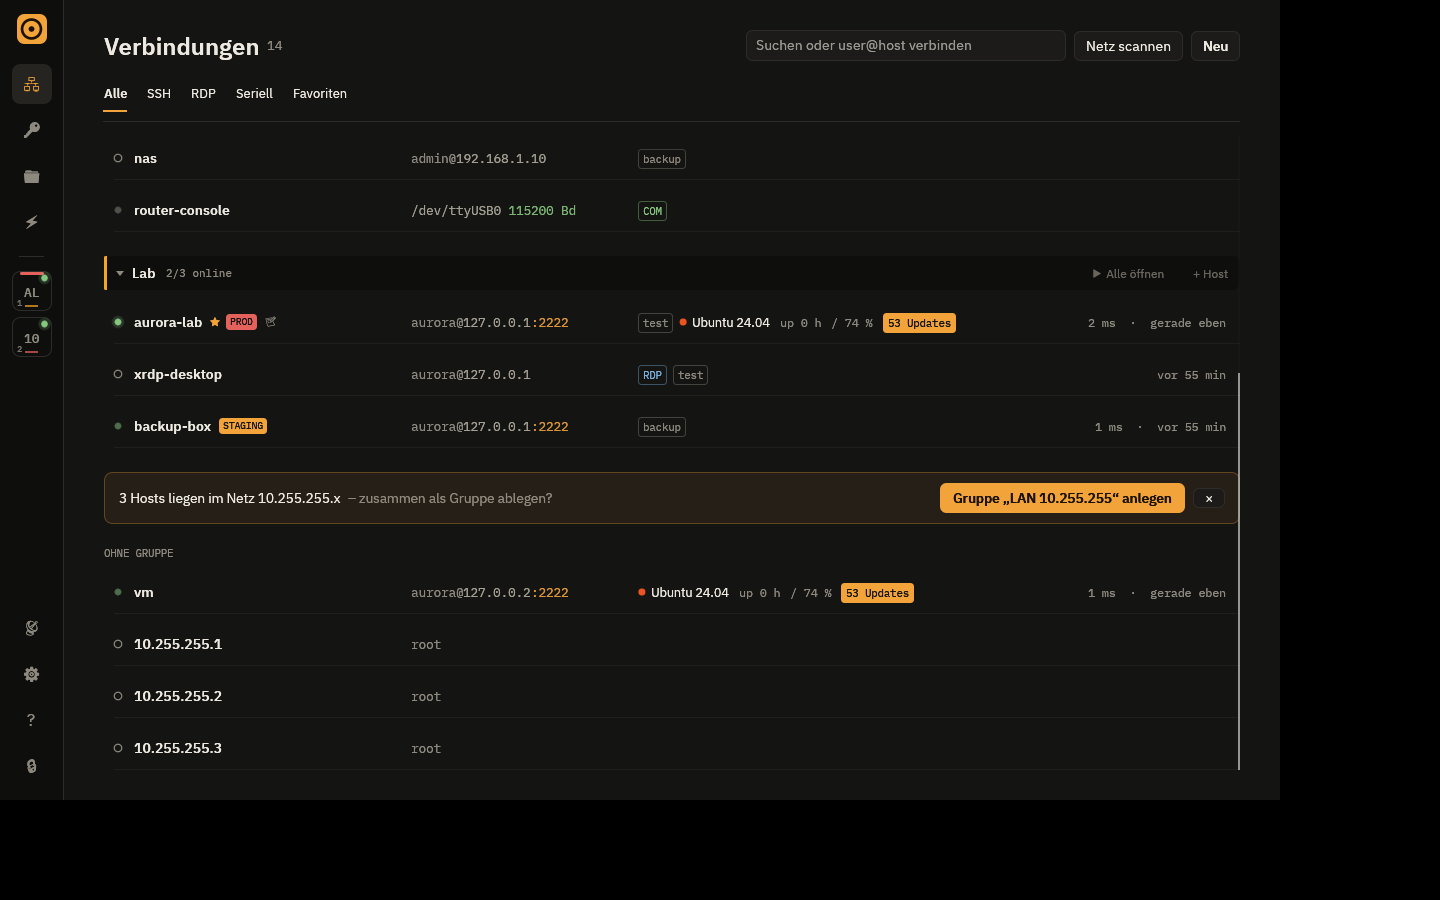
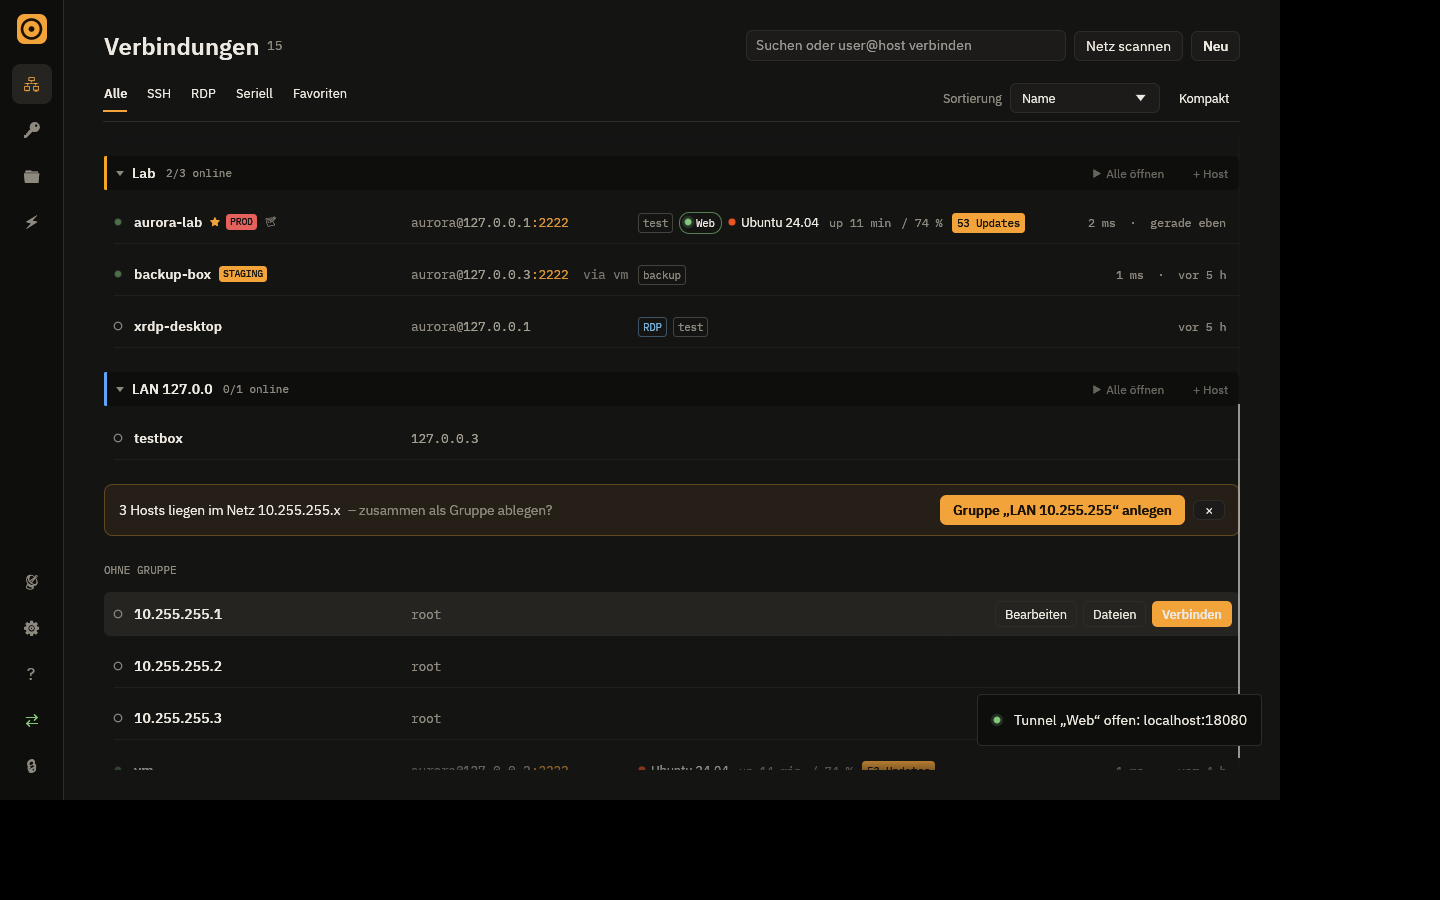
Security fixes (private temp dirs for updates/edits, never shell-open executable remote files), English UI merged, release 0.5.0
Claude-Session: https://claude.ai/code/session_01LvNC3dMGZM5cEJJMTfKPmr

diff --git a/src/ui/sftp.rs b/src/ui/sftp.rs
@@ -567,13 +567,21 @@ pub fn show(app: &mut App, ui: &mut egui::Ui, tab_id: u64) {
                     ));
                     continue;
                 }
-                let dir = std::env::temp_dir()
-                    .join("aurora-edit")
-                    .join(uuid::Uuid::new_v4().simple().to_string());
-                if let Err(e) = std::fs::create_dir_all(&dir) {
-                    toasts.push((t!("Temp-Ordner: {}", e), theme::red()));
+                let editor_set = !editor.trim().is_empty();
+                if !editor_set && runs_when_opened(&name) {
+                    toasts.push((
+                        t!("„{}“ ist ausführbar – zum Bearbeiten erst einen Editor in den Einstellungen festlegen", name),
+                        theme::amber(),
+                    ));
                     continue;
                 }
+                let dir = match crate::store::private_temp_dir("aurora-edit") {
+                    Ok(d) => d,
+                    Err(e) => {
+                        toasts.push((t!("Temp-Ordner: {}", e), theme::red()));
+                        continue;
+                    }
+                };
                 next_id += 1;
                 if let Some(r) = &pane.remote {
                     let _ = r.tx.send(SftpCmd::Download {
@@ -1101,6 +1109,43 @@ fn entry_row(
 
 /// Opens a local file in the configured editor command, or the system default app.
 /// The path is passed as a single argument (no shell), so odd file names are harmless.
+/// File types the system's default handler would execute instead of opening for editing.
+fn runs_when_opened(name: &str) -> bool {
+    const RISKY: &[&str] = &[
+        "exe",
+        "com",
+        "bat",
+        "cmd",
+        "ps1",
+        "psm1",
+        "vbs",
+        "vbe",
+        "js",
+        "jse",
+        "wsf",
+        "wsh",
+        "hta",
+        "msi",
+        "msp",
+        "scr",
+        "lnk",
+        "url",
+        "pif",
+        "cpl",
+        "jar",
+        "reg",
+        "appref-ms",
+        "library-ms",
+        "desktop",
+        "appimage",
+        "app",
+        "command",
+        "run",
+    ];
+    name.rsplit_once('.')
+        .is_some_and(|(_, ext)| RISKY.contains(&ext.trim().to_lowercase().as_str()))
+}
+
 fn open_in_editor(editor: &str, path: &std::path::Path) -> std::io::Result<()> {
     let editor = editor.trim();
     if !editor.is_empty() {
@@ -1112,8 +1157,11 @@ fn open_in_editor(editor: &str, path: &std::path::Path) -> std::io::Result<()> {
             .spawn()?;
         return Ok(());
     }
+    // Windows: always a text editor – the shell's default action could run the file.
     #[cfg(windows)]
-    std::process::Command::new("explorer").arg(path).spawn()?;
+    std::process::Command::new("notepad.exe")
+        .arg(path)
+        .spawn()?;
     #[cfg(target_os = "macos")]
     std::process::Command::new("open").arg(path).spawn()?;
     #[cfg(all(unix, not(target_os = "macos")))]
@@ -1411,4 +1459,15 @@ fn source_combo(ui: &mut egui::Ui, id: &str, value: &mut Option<Uuid>, hosts: &[
                 ui.selectable_value(value, Some(*hid), name);
             }
         });
+}
+
+#[cfg(test)]
+mod edit_tests {
+    #[test]
+    fn executables_are_not_opened() {
+        assert!(super::runs_when_opened("deploy.CMD"));
+        assert!(super::runs_when_opened("notes.txt   .hta"));
+        assert!(!super::runs_when_opened("nginx.conf"));
+        assert!(!super::runs_when_opened("README"));
+    }
 }

diff --git a/src/store.rs b/src/store.rs
@@ -172,6 +172,20 @@ impl Vault {
     }
 }
 
+/// A fresh directory only this user can access (`<tmp>/<prefix>-<random>`, mode 0700).
+/// Never reuses an existing path, so nobody else can pre-create or swap its contents.
+pub fn private_temp_dir(prefix: &str) -> Result<PathBuf> {
+    let dir = std::env::temp_dir().join(format!("{prefix}-{}", uuid::Uuid::new_v4().simple()));
+    #[cfg(unix)]
+    {
+        use std::os::unix::fs::DirBuilderExt;
+        fs::DirBuilder::new().mode(0o700).create(&dir)?;
+    }
+    #[cfg(not(unix))]
+    fs::create_dir(&dir)?;
+    Ok(dir)
+}
+
 /// Everything worth moving to another PC, as written into an `.aurora` export file.
 #[derive(Serialize, Deserialize, Default)]
 #[serde(default)]

diff --git a/src/update.rs b/src/update.rs
@@ -220,9 +220,9 @@ fn install_blocking(release: &Release, sink: &Sink<UpdateEvent>) -> Result<bool>
         bail!(t!("Prüfsumme stimmt nicht – Download verworfen"));
     }
 
-    let dir = std::env::temp_dir().join(format!("aurora-update-{}", release.version_text()));
-    let _ = std::fs::remove_dir_all(&dir);
-    std::fs::create_dir_all(&dir)?;
+    // Private, randomly named directory: another local user must not be able to
+    // swap the verified file before the installer / pkexec reads it.
+    let dir = crate::store::private_temp_dir("aurora-update")?;
     let file = dir.join(&asset.name);
     std::fs::write(&file, &data)?;
 

diff --git a/src/i18n/ui_files.rs b/src/i18n/ui_files.rs
@@ -107,4 +107,8 @@ pub const T: &[(&str, &str)] = &[
         "Security screen / sign-in",
     ),
     ("Getrennt", "Disconnected"),
+    (
+        "„{}“ ist ausführbar – zum Bearbeiten erst einen Editor in den Einstellungen festlegen",
+        "\"{}\" is executable – set an editor in Settings before editing it",
+    ),
 ];

diff --git a/README.md b/README.md
@@ -30,6 +30,12 @@ Unter [Releases](../../releases) liegen Windows und Linux im selben Release:
 | **Gruppen** | Verschachtelt, Farbe & Icon, vererbte Standard-User/-Identität, Favoriten, Zuletzt verbunden, Tags |
 | **Design** | Eigenes „Patchbay“-Design: Sessions als nummerierte Ports mit Status-LED in der Leiste, IBM Plex Sans/Mono. 12 Themes (Phosphor, Glacier, Nord, Dracula, Paper, Tokyo Night, Gruvbox, Catppuccin, Rosé Pine, Solarized Dark/Light, GitHub Light) – das Terminal übernimmt jeweils die passenden Farben. Befehlspalette `Ctrl/⌘+K`, Broadcast-Modus |
 | **Hostliste** | Zeigt nach dem ersten Login **Betriebssystem, Laufzeit, Plattenbelegung und offene Updates** (ein Klick: „Updates installieren“), Latenz und Status (grün = erreichbar, Ring = keine Antwort, rot = letzte Verbindung fehlgeschlagen). Hosts ohne Namen übernehmen den Hostnamen des Servers, Umbenennen per `F2`. Gruppen mit „x/y online“, Vorschlag zum Gruppieren von Hosts im selben Netz. **Netz scannen** findet SSH-/RDP-Geräte im lokalen Netz (mit OS-Hinweis aus dem SSH-Banner). **SSH-Key einrichten**: Key erzeugen, auf dem Server hinterlegen, Anmeldung prüfen – danach ohne Passwort |
+| **Tunnel & Jump-Host** | Port-Weiterleitungen pro Host als Schalter in der Liste (Status-LED, optional Browser öffnen); „Verbinden über“ einen anderen SSH-Host (ProxyJump) – gilt für Terminal, Dateien, Tunnel |
+| **Dateien bearbeiten** | Doppelklick auf eine Server-Datei öffnet sie im eigenen Editor, jedes Speichern lädt sie automatisch hoch (ausführbare Dateitypen werden nie mit der Standard-App geöffnet) |
+| **Hostliste** (2) | Mehrfachauswahl (Ctrl/Shift+Klick) mit Sammelaktionen, Hosts per Drag & Drop in Gruppen, kompakte Ansicht, Sortierung (Name / zuletzt / online) |
+| **Sitzungen** | Offene Sessions samt Splitscreen werden beim nächsten Start wiederhergestellt |
+| **Export / Import** | Hosts, Gruppen, Snippets und Schlüssel als passwortgeschützte, verschlüsselte Datei (Argon2id + XChaCha20-Poly1305) |
+| **Sprache** | Deutsch und Englisch (Einstellungen → Sprache / Language) |
 | **Produktiv** | **Schnellverbindung**: `user@host`, `host:port` oder `ssh -p 2222 user@host` in `Ctrl+K` – danach „Als Host speichern“ · **Ganze Gruppe öffnen** (bis zu 4 Hosts direkt im Splitscreen) · **Suche im Terminal** (`Ctrl+Shift+F`, inkl. Scrollback) · **Schriftgröße per `Ctrl`+Mausrad** pro Pane · markierten Text **als Snippet speichern** · Import aus `~/.ssh/config` |
 | **Sicherheit** | **Umgebungs-Etikett** PROD / STAGING / TEST / DEV pro Host oder Gruppe – PROD-Sessions mit rotem Rahmen und **Nachfrage bei gefährlichen Befehlen** (`rm -rf`, `reboot`, `DROP TABLE` …) · **Notizen pro Host** als Banner beim Verbinden · **automatisches Sperren** nach Inaktivität (Sessions laufen weiter) |
 | **Einstieg** | Kurze Einführung beim ersten Start, Tastenkürzel-Übersicht mit `F1` / `?`, Leerzustände mit direkter Aktion |

diff --git a/SECURITY.md b/SECURITY.md
@@ -17,6 +17,11 @@
 | Server-Infos | Nach dem Login laufen nur lesende Befehle (`/etc/os-release`, `hostname`, `/proc/uptime`, `df`, `apt-get -s upgrade`) auf einem eigenen Kanal; Ausgabe wird gekürzt und von Steuerzeichen bereinigt |
 | Netz-Scan | Nur TCP-Verbindungsaufbau (+ SSH-Banner lesen), höchstens /22, nichts wird angemeldet |
 | SSH-Key einrichten | Öffentlicher Schlüssel wird vor dem Einfügen in den Shell-Befehl auf erlaubte Zeichen geprüft; danach wird die Anmeldung nur mit dem Key verifiziert |
+| Tunnel | Lauschen nur auf `127.0.0.1`, nie auf allen Interfaces |
+| Jump-Host | Der Server-Key des Ziels wird wie bei einer direkten Verbindung geprüft (eigener Fingerprint pro `host:port`) |
+| Dateien bearbeiten | Download in einen privaten, zufällig benannten Temp-Ordner (0700); ausführbare Typen (`.exe`, `.cmd`, `.hta`, `.js`, `.desktop` …) werden ohne festgelegten Editor nicht geöffnet, unter Windows immer Notepad statt Standard-App |
+| Updates (Temp) | Download in einen privaten, zufällig benannten Ordner (0700), damit niemand die geprüfte Datei vor der Installation austauschen kann |
+| Export | Eigene Passphrase, Argon2id + XChaCha20-Poly1305, Dateirechte `0600` |
 
 ## Security-Review 0.1 (behobene Funde)
 
